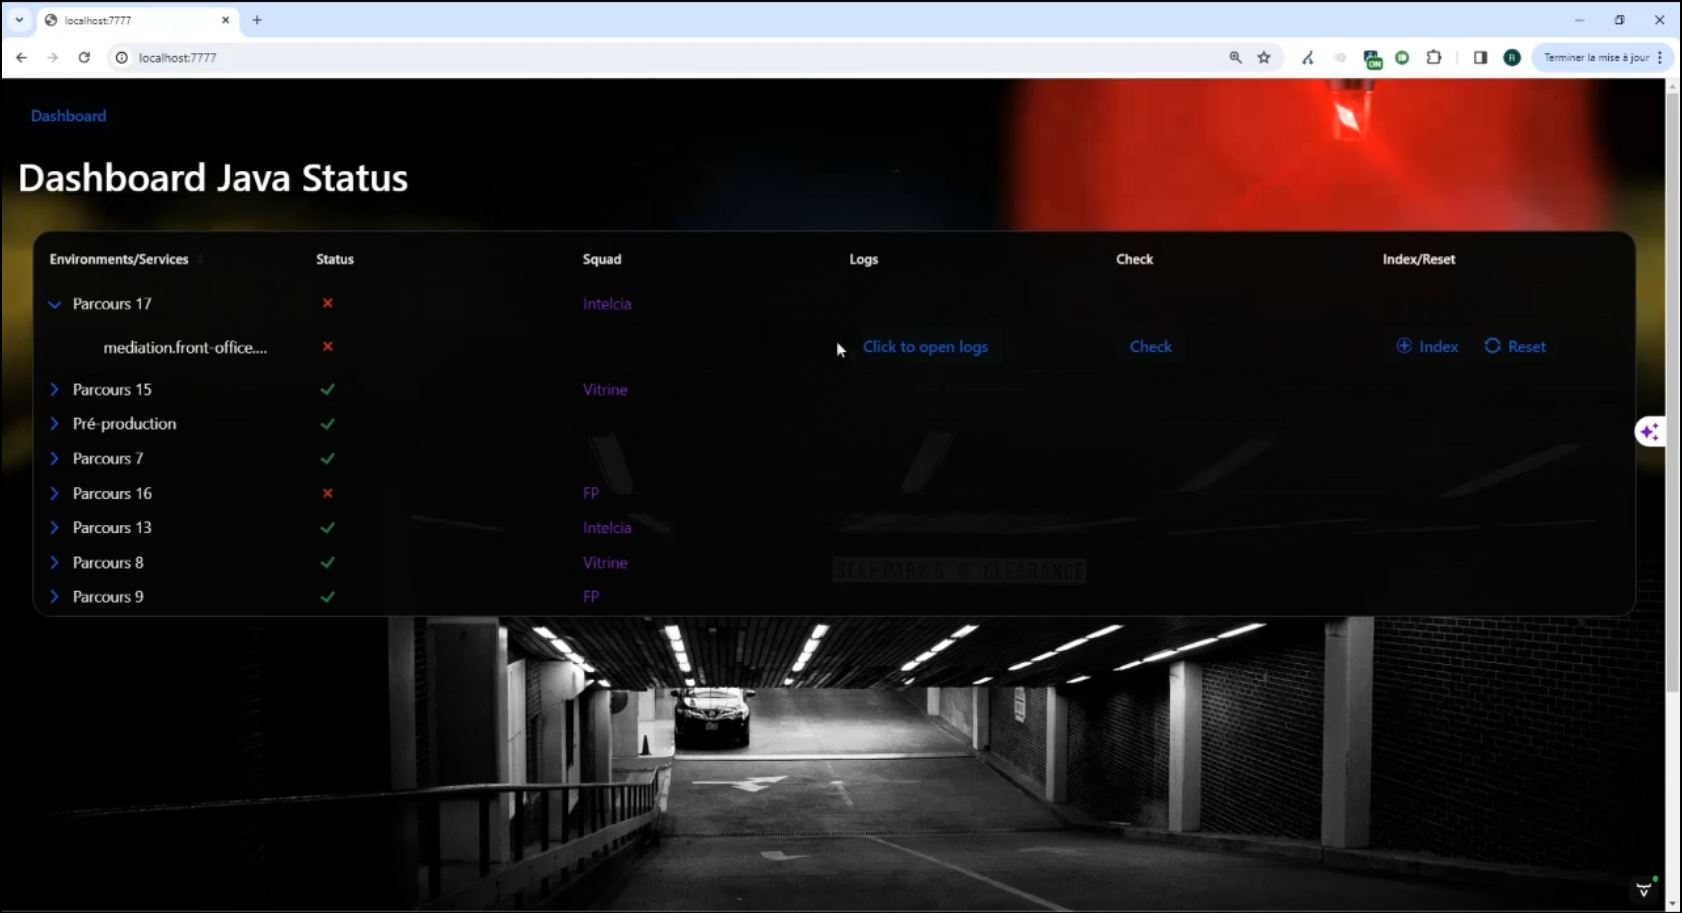
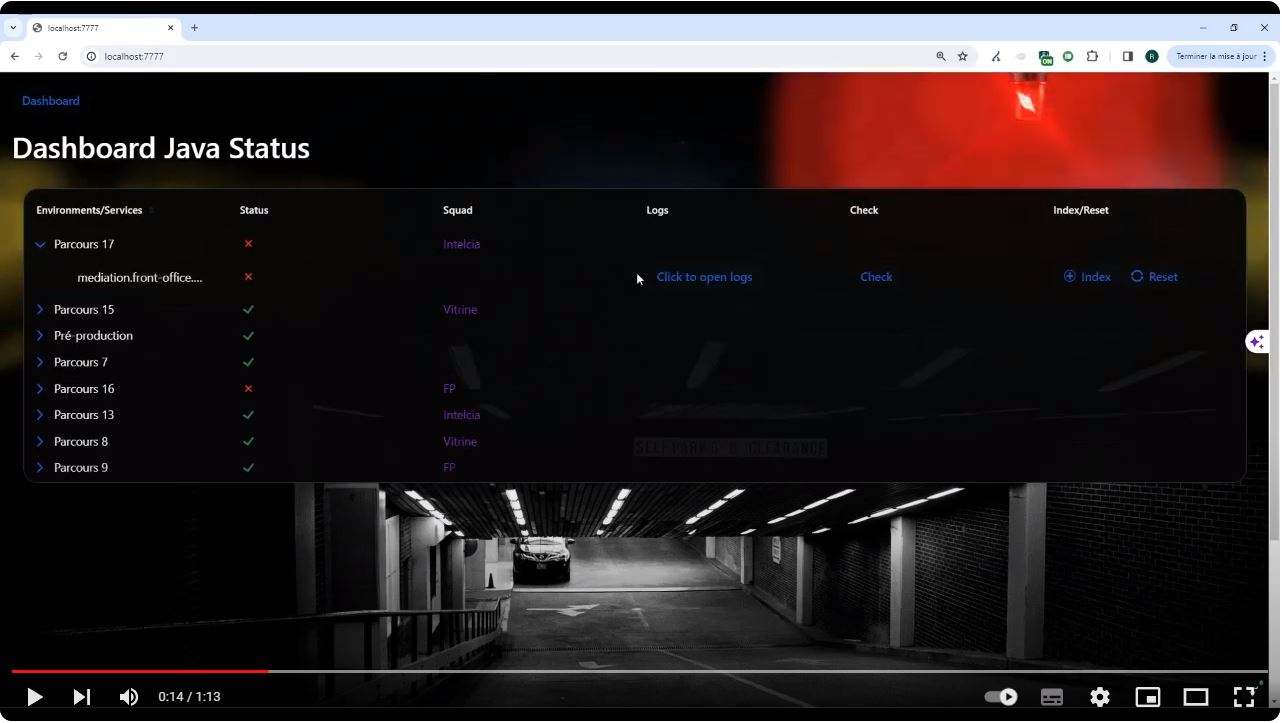
Add video to README.md

diff --git a/README.md b/README.md
@@ -5,6 +5,8 @@ A program than constantly scans the logs on an environment (PREPROD for my purpo
 
 Currently, the program is able to scan the logs of a PREPROD environment and to store them in a database. It is also able to detect new error logs and to send an email to the IT service to alert them. The program is also able to detect when your environments (PREPROD now) has a regression and to send an email to the IT service to alert them.
 
+[![TNR Tool](https://raw.githubusercontent.com/Rayanox/NewErrorLogsMonitorer/main/Image-dashboard.JPG)](https://youtu.be/CEx09YiQbDk "TNR tool")
+
 ## Next evolution
 This program is involving and is to become a central tool for the IT service (usefull dashboard for following processes and starting actions).
 
